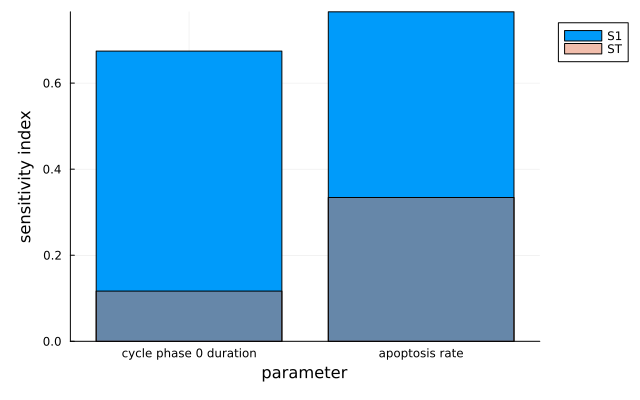
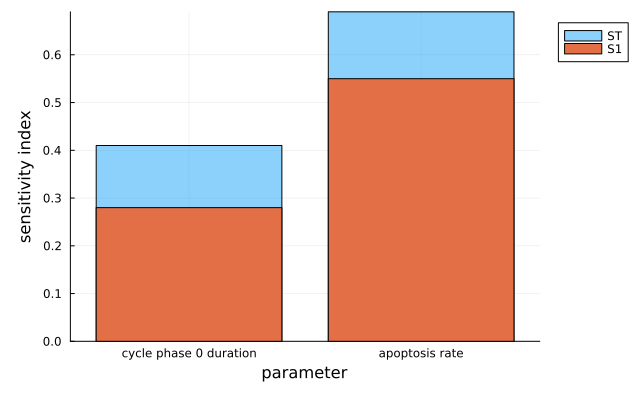
Draw the Sobol' figure from illustrative indices, and say so
A Sobol'(16) design estimated ST below S1, which no total-order index
is, and the design that respects it is 238 simulations for a figure
whose job is to show the plot. The bars are now hand-written values
through the same recipe a real SobolSampling uses; the caption says so.
Rendered against ModelManager's fix drawing ST behind S1.

diff --git a/progress.md b/progress.md
@@ -9,11 +9,15 @@
 
 Two items from the maintainer's own to-do list, handled before 0.5.0.
 
-- **Figures.** `docs/generate_figures.jl` now also runs a MOAT(8), Sobolʼ(16) and RBD(16) design and
-  a four-generation ABC-SMC on the template project -- two parameters, a cycle phase duration and
+- **Figures.** `docs/generate_figures.jl` now also runs a MOAT(8) and RBD(16) design and a
+  four-generation ABC-SMC on the template project -- two parameters, a cycle phase duration and
   the apoptosis rate, final cell count as the measurement, 50 cells for two simulated days -- and
   saves eight PNGs embedded in `sensitivity_analysis.md` (which had no plotting section at all) and
-  `calibration.md`. The template project rather than `immune_sample`: its config parameters govern
+  `calibration.md`. The Sobolʼ bars alone are illustrative numbers pushed through the real recipe:
+  a Sobolʼ(16) design (40 simulations) estimated `ST < S1`, which no total-order index is, and the
+  design that respects it, Sobolʼ(64), is 238 simulations for a picture that only shows the plot.
+  The maintainer's call: the figures are there so a user sees what can be plotted, not to measure.
+  Drawing that figure also exposed the recipe drawing `ST` on top of `S1`; fixed in ModelManager. The template project rather than `immune_sample`: its config parameters govern
   the cell count directly and a simulation takes seconds, where `immune_sample`'s rates are set by
   its custom code, so varying them in the XML would draw indices of nothing. Same trade as before:
   committed PNGs, regenerated by hand when a recipe changes, because the docs CI has no PhysiCell.

diff --git a/docs/src/man/sensitivity_analysis.md b/docs/src/man/sensitivity_analysis.md
@@ -200,12 +200,12 @@ plot(moat_sampling; parameters=["Apoptosis rate"])   # a subset, in this order
 ```
 
 On the template project, varying a cycle phase duration and the apoptosis rate with the final cell
-count as the measurement:
+count as the measurement (the Sobol' bars are illustrative values rather than a measured design):
 
 ![MOAT: µ* per parameter, σ as whiskers](../assets/gsa_moat_bar.png)
 
 ![MOAT: µ*–σ screening scatter](../assets/gsa_moat_scatter.png)
 
-![Sobol': first-order and total-order indices](../assets/gsa_sobol.png)
+![Sobol': first-order bars in front of total-order bars (illustrative values)](../assets/gsa_sobol.png)
 
 ![RBD: first-order indices](../assets/gsa_rbd.png)
